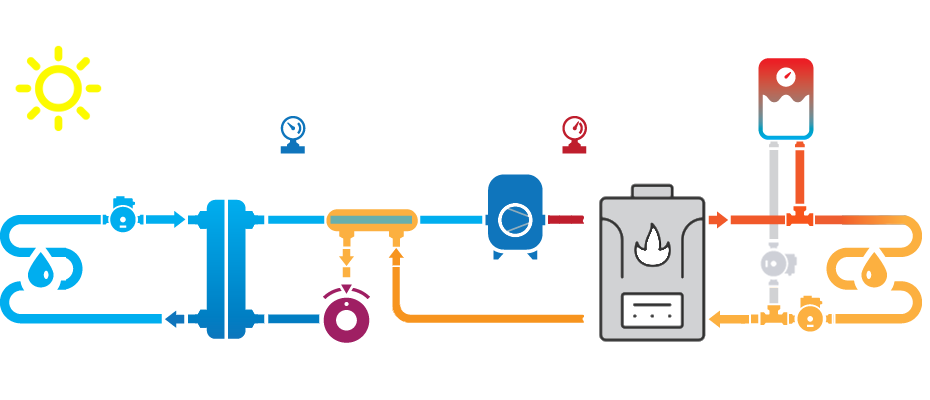
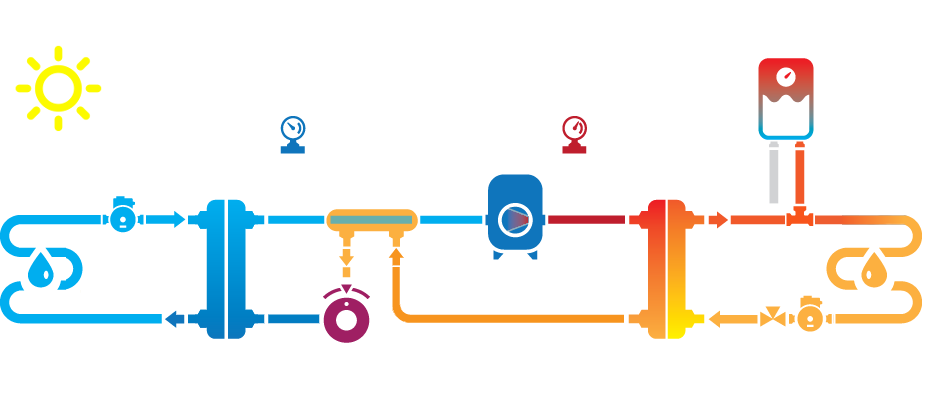
изменены plan?.png

diff --git a/ControlHeatPump/Control/Config.h b/ControlHeatPump/Control/Config.h
@@ -5023,7 +5023,7 @@ const char *noteTemp[] = {"Температура улицы",
 	#define CONFIG_NOTE   "Частотник,Охлаждение,ЭРВ,РТО,ТП,Котел,ВаттРоутер. (Vacon 10,HLP068T4LC6,B3-052-46-HQ,HE 4.0,ETS 6-25)"
 	// Danfoss HLP068T4LC6, Vacon 10 (VACON0020-3L-0012-4), ПТО: B3-052-46-HQ, РТО: HE 4.0, ЭРВ: ETS 6-25
 	// Геоконтур: 6x50м ПНД50/ПП20 коаксил, Солнечный Коллектор: 6х50м ПНД 20.
-	#define HP_SCHEME     3			// Номер схемы который выводится на веб-морде по умолчанию, подмена файлов plan[HPscheme].png -> plan1.png
+	#define HP_SCHEME     5			// Номер схемы который выводится на веб-морде по умолчанию, подмена файлов plan[HPscheme].png -> plan1.png
 	#define USE_HEATER				// Есть второй котел (электро или газовый)
 	#define UART_SPEED    250000	// Скорость отладочного порта
 	#define KEY_ON_OFF				// + KEY1 Наличие кнопки включения и переключения в safeNetwork (нажата при сбросе)
@@ -5157,7 +5157,7 @@ const char *noteTemp[] = {"Температура улицы",
 	#define USE_SERIAL4							// Использовать порт Serial4 на D52(RXD2) и A11/D65(TXD2) +(X42.1-3.3V, X43.3-GND)
 	#ifdef USE_HEATER							// Используется Котел
 		#define HEATER_MODBUS_ADDR		240		// 0xF0, Адаптер Opentherm - RS485(Modbus)
-		#define HP_SCHEME_HEATER		5		// Номер схемы который выводится на веб-морде при активном Котле
+		#define HP_SCHEME_HEATER		6		// Номер схемы который выводится на веб-морде при активном Котле
 		#define HEATER_MODBUS_PORT		Serial4	// Управление через Modbus (Адаптер ectoControl OpenTherm RS485)
 		#define HEATER_MODBUS_SPEED		19200
 		#define HEATER_MODBUS_CONFIG	SERIAL_8N1
@@ -5520,7 +5520,7 @@ const char *noteTemp[] = {"Температура улицы",
 	#define TEVAOUT     8    // Температура на выходе ПТО геоконтура (по фреону)     - 285960280600000A
 	#define TCONOUT     9    // Температура на выходе ПТО СО (по фреону)   - 28FF509C55140355
 	#define TSUN		10   // Температура солнечного коллектора (улица)        - 28FF22F9551403AA
-	#define THEATER		11   // Температура на выходе Котла						 - 28DE862E1713012C
+	#define THEATER		11   // Температура на обратке Котла					 - 28DE862E1713012C
 	// Датчики для информации:
 	#define TKITCHEN	12  // 101350B4020800CA
 	#define TFL1BEDR	13  // 28C974DF050000CB
@@ -5561,7 +5561,7 @@ const char *noteTemp[] = {"Температура улицы",
 		"TCONOUT",          // 9. Температура на выходе конденсатора по фреону
 
 		"TSUN",				// 10. Температура улицы 2
-		"THEATER",			// 11. Температура на выходе Котла
+		"THEATER",			// 11. Температура на обратке Котла
 		"TKITCHEN",			// 12.
 		"TFL1BEDR",			// 13.
 		"TFL2BEDR",			// 14.
@@ -5589,7 +5589,7 @@ const char *noteTemp[] = {"Температура улицы",
 		"Температура фреона на выходе ПТО гео",
 		"Температура фреона на выходе ПТО дома",
 		"Температура улицы 2, СП",
-		"Температура на выходе Котла",
+		"Температура на обратке Котла",
 		"Температура кухни",
 		"Температура спальни 1 этажа",
 		"Температура спальни 2 этажа",
